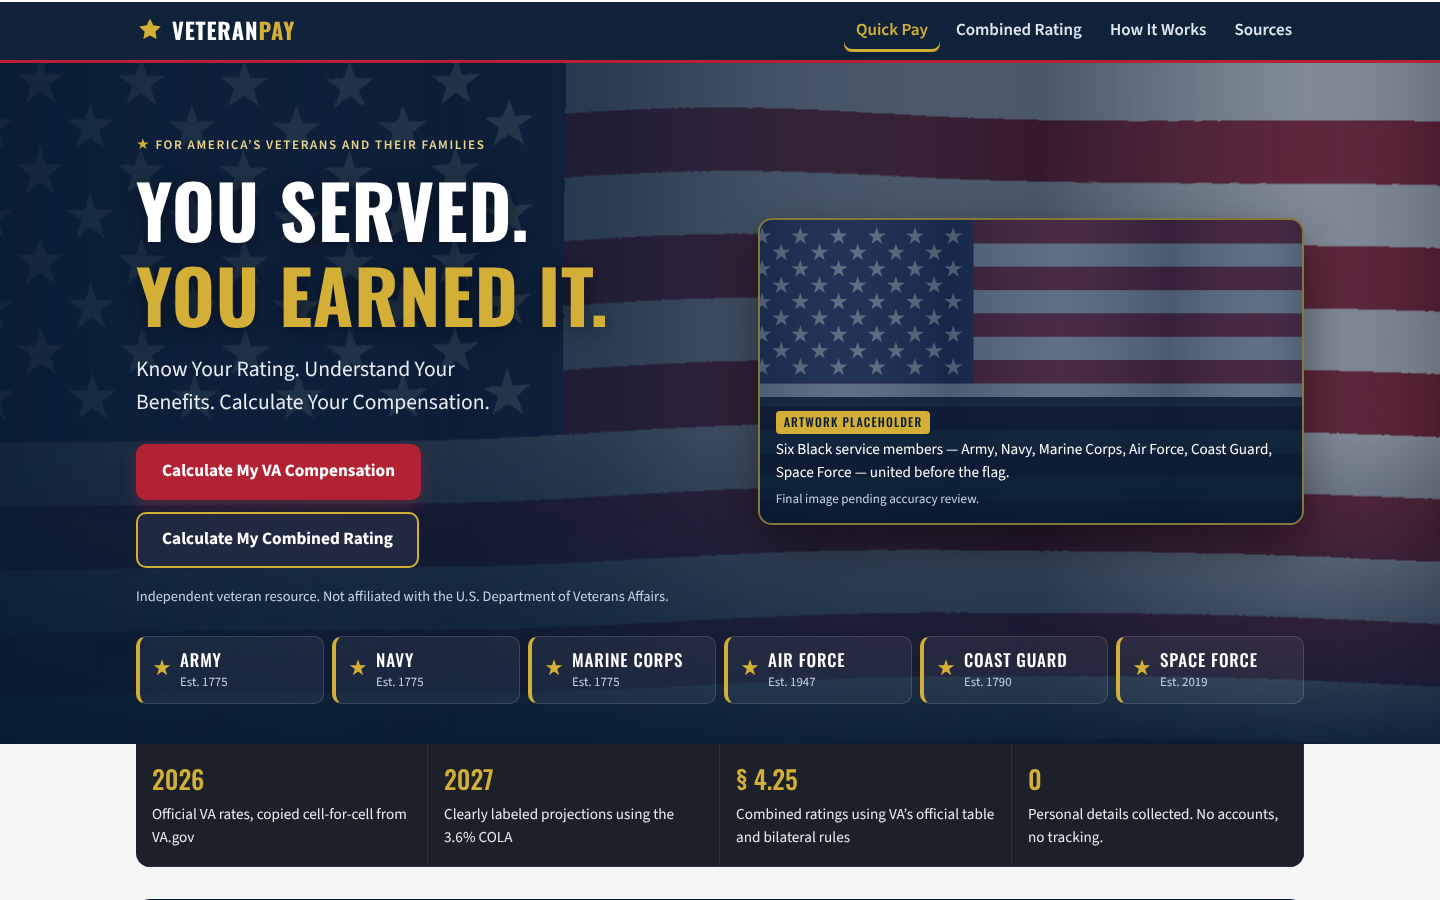
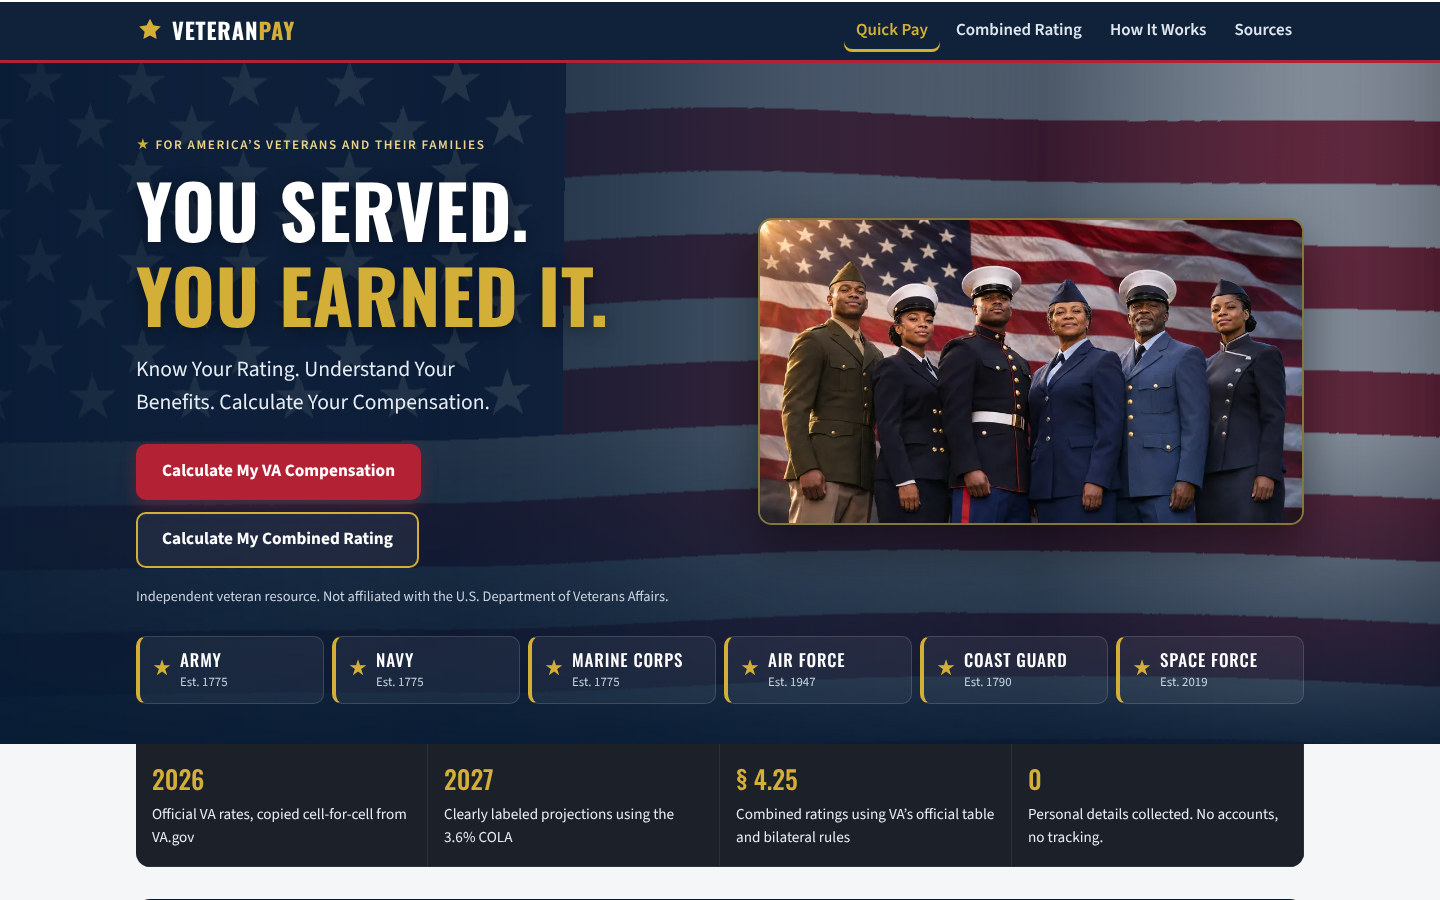
Install reviewed hero artwork of six Black service members
- ChatGPT-generated image reviewed against docs/hero-artwork.md checklist
  (six branches, three men and three women, no invented insignia, correct flag)
- Responsive WebP/JPG at 960 and 1600 px via <picture>/srcset; master kept in docs/assets
- Image shown above the headline on phones and tablets
- Social share image and Open Graph tags
- Update audit log, hero brief, handoff open items, and screenshots

Claude-Session: https://claude.ai/code/session_018dbFcAxSFCPLwop7PF7wZ7

Changed region(s): [[0.5, 0.2178, 0.9062, 0.5911]]

diff --git a/src/heroArt.ts b/src/heroArt.ts
@@ -1,22 +1,29 @@
 /**
- * Hero artwork slot.
+ * Hero artwork.
  *
- * Required asset (see docs/hero-artwork.md for the full brief):
- *  Cinematic group portrait of six Black American service members — Black men and women of
- *  varied ages and appearances — one each from the Army, Navy, Marine Corps, Air Force,
- *  Coast Guard, and Space Force, in branch-correct uniforms, standing together before a
- *  large American flag with dramatic lighting. Fictional people only; no real individuals.
+ * Six Black American service members — three men and three women of varied ages — one each
+ * from the Army, Navy, Marine Corps, Air Force, Coast Guard, and Space Force, standing before
+ * a large American flag. Fictional people (AI-generated). Reviewed 2026-11-18 against the
+ * checklist in docs/hero-artwork.md. Master file: docs/assets/hero-master-1672x941.png.
  *
- * The page shows a clearly labeled placeholder until an asset has been generated AND a
- * human has reviewed it for uniform/insignia accuracy and dignity. Then set:
- *   export const HERO_ART = { src: 'hero/service-members.jpg', alt: '…', reviewed: true };
- * with the file placed at public/hero/service-members.jpg (2400px wide, < 400 KB JPG/WebP).
+ * Files in public/hero/: `${basename}-{960,1600}.{webp,jpg}`.
  */
 export interface HeroArt {
-  /** Path relative to the site base (public/ folder). */
-  src: string;
+  /** Base path relative to the site base, without size/extension suffix. */
+  basename: string;
+  widths: readonly number[];
+  /** Intrinsic aspect ratio (width / height) of the source. */
+  width: number;
+  height: number;
   alt: string;
   reviewed: boolean;
 }
 
-export const HERO_ART: HeroArt | null = null;
+export const HERO_ART: HeroArt | null = {
+  basename: 'hero/service-members',
+  widths: [960, 1600],
+  width: 1672,
+  height: 941,
+  alt: 'Six Black American service members, three men and three women, standing shoulder to shoulder before a large American flag in the dress uniforms of the Army, Navy, Marine Corps, Air Force, Coast Guard, and Space Force.',
+  reviewed: true,
+};

diff --git a/src/components/Hero.tsx b/src/components/Hero.tsx
@@ -52,14 +52,24 @@ export function Hero({ onCompensation, onCombined }: Props) {
 
         <figure className={`hero__art ${art ? '' : 'hero__art--placeholder'}`}>
           {art ? (
-            <img
-              src={`${import.meta.env.BASE_URL}${art.src}`}
-              alt={art.alt}
-              width={1200}
-              height={675}
-              fetchPriority="high"
-              decoding="async"
-            />
+            <picture>
+              {(['webp', 'jpg'] as const).map((ext) => (
+                <source
+                  key={ext}
+                  type={ext === 'webp' ? 'image/webp' : 'image/jpeg'}
+                  srcSet={art.widths.map((w) => `${import.meta.env.BASE_URL}${art.basename}-${w}.${ext} ${w}w`).join(', ')}
+                  sizes="(min-width: 1200px) 560px, (min-width: 980px) 46vw, calc(100vw - 32px)"
+                />
+              ))}
+              <img
+                src={`${import.meta.env.BASE_URL}${art.basename}-${art.widths[0]}.jpg`}
+                alt={art.alt}
+                width={art.width}
+                height={art.height}
+                fetchPriority="high"
+                decoding="async"
+              />
+            </picture>
           ) : (
             <div className="art-placeholder" role="img" aria-label="Placeholder for hero artwork: six Black American service members, one from each of the six military branches, standing together before the American flag. Final artwork pending review.">
               <AmericanFlag className="art-placeholder__flag" waving={false} />

diff --git a/index.html b/index.html
@@ -9,6 +9,18 @@
       content="VeteranPay: an independent, privacy-first VA disability compensation and combined-rating calculator using official VA rate tables. Not affiliated with the U.S. Department of Veterans Affairs."
     />
     <link rel="icon" type="image/svg+xml" href="./favicon.svg" />
+    <meta property="og:type" content="website" />
+    <meta property="og:title" content="VeteranPay — VA Disability Compensation Calculator" />
+    <meta
+      property="og:description"
+      content="You served. You earned it. Calculate your VA compensation and combined rating with official VA rates. Independent; not affiliated with VA."
+    />
+    <meta property="og:url" content="https://bazeocrisy.github.io/VA-Disability-Calculator/" />
+    <meta property="og:image" content="https://bazeocrisy.github.io/VA-Disability-Calculator/og-image.jpg" />
+    <meta property="og:image:width" content="1200" />
+    <meta property="og:image:height" content="630" />
+    <meta property="og:image:alt" content="Six Black American service members from all six branches before the American flag." />
+    <meta name="twitter:card" content="summary_large_image" />
     <title>VeteranPay — VA Disability Compensation Calculator</title>
   </head>
   <body>

diff --git a/src/test/ui.test.tsx b/src/test/ui.test.tsx
@@ -31,9 +31,15 @@ describe('App', () => {
     expect(BRANCHES).toHaveLength(6);
   });
 
-  it('labels the hero artwork placeholder honestly until reviewed art exists', () => {
-    render(<App />);
-    expect(screen.getByRole('img', { name: /Placeholder for hero artwork/i })).toBeTruthy();
+  it('shows the reviewed hero artwork with descriptive alt text and responsive sources', () => {
+    const { container } = render(<App />);
+    const img = screen.getByRole('img', { name: /Six Black American service members/i }) as HTMLImageElement;
+    expect(img.getAttribute('alt')).toMatch(/Army, Navy, Marine Corps, Air Force, Coast Guard, and Space Force/);
+    expect(img.getAttribute('src')).toMatch(/hero\/service-members-960\.jpg$/);
+    const sources = container.querySelectorAll('.hero__art source');
+    expect(sources).toHaveLength(2);
+    expect(sources[0].getAttribute('srcset')).toMatch(/service-members-1600\.webp 1600w/);
+    expect(screen.queryByRole('img', { name: /Placeholder for hero artwork/i })).toBeNull();
   });
 
   it('labels 2026 official and 2027 PROJECTED results with dates', () => {

diff --git a/src/styles.css b/src/styles.css
@@ -230,6 +230,12 @@ h3 {
     linear-gradient(180deg, rgba(7, 27, 51, 0) 55%, rgba(7, 27, 51, 0.92) 100%);
 }
 @media (max-width: 979px) {
+  .hero {
+    padding-top: 20px;
+  }
+  .hero__art {
+    order: -1;
+  }
   .hero__scrim {
     background: linear-gradient(180deg, rgba(7, 27, 51, 0.62) 0%, rgba(7, 27, 51, 0.9) 30%, rgba(7, 27, 51, 0.94) 100%);
   }
@@ -284,6 +290,10 @@ h3 {
   box-shadow: 0 20px 50px rgba(0, 0, 0, 0.45);
   aspect-ratio: 16 / 9;
   background: var(--navy-2);
+}
+.hero__art picture {
+  display: block;
+  height: 100%;
 }
 .hero__art img {
   width: 100%;

diff --git a/docs/hero-artwork.md b/docs/hero-artwork.md
@@ -1,13 +1,31 @@
 # Hero artwork — brief and status
 
-## Status: NOT FINAL — placeholder shown on site
+## Status: INSTALLED — reviewed 2026-11-18
 
 | Item | State |
 |---|---|
-| Candidate generated | Yes — Canva AI image generation, 2026-11-18, 2720 × 1536 px. Canva media `MAHbRcTK2AA` ([open in Canva](https://www.canva.com/M/MAHbRcTK2AA)); wrapped in design [DAHbRfzV-rw](https://canva.link/3bpbx6ity8qylrv). |
-| Full-resolution file in repo | **No.** Canva refused export to the build session ("Not allowed to access design"), so only a 198 × 112 preview was available. |
-| Human review | **Not done.** At preview size the six figures appear to wear distinct dress uniforms in front of a flag, but uniform accuracy, insignia, rank devices, and faces cannot be verified at that size. AI images commonly invent incorrect insignia and ribbons. |
-| Shipped on site | Clearly labeled placeholder (`src/heroArt.ts` → `HERO_ART = null`). The site does not claim final artwork exists. |
+| Source | AI-generated by ChatGPT (from the prompt in `docs/chatgpt-handoff.md`), supplied by the project owner on 2026-11-18. Fictional people. |
+| Master file | `docs/assets/hero-master-1672x941.png` (1672 × 941 PNG, 2.2 MB) |
+| Web files | `public/hero/service-members-{960,1600}.{webp,jpg}` — WebP 47 KB / 89 KB, JPG 79 KB / 173 KB; served with `<picture>` + `srcset` |
+| Social share image | `public/og-image.jpg` (1200 × 630, cropped from master; heads preserved) |
+| Wired in | `src/heroArt.ts` (`reviewed: true`) |
+| Earlier Canva draft | Superseded (could not be exported at full size). |
+
+### Review result (checklist below)
+
+| Check | Result |
+|---|---|
+| Six people; three men, three women | Pass |
+| Black Americans, varied ages (mid-20s to mid-50s) and appearances; dignified, no stereotypes | Pass |
+| One per branch, left to right: Army (olive coat, tan trousers, garrison cap) · Navy (dark double-breasted jacket, white cover) · Marine Corps (dress blues, white belt, red trouser stripe, white cover) · Air Force (blue coat, light-blue shirt, flight cap) · Coast Guard (lighter gray-blue coat, white cover) · Space Force (dark gray-navy coat, asymmetric silver-button closure) | Pass |
+| Navy and Coast Guard visibly distinct | Pass |
+| No invented insignia, seals, logos, text or numbers | Pass (insignia minimal / soft) |
+| Flag: stripes, blue canton with stars at upper left, not mirrored | Pass |
+| Faces safe when displayed on phones | Pass (frame keeps 16:9 on all viewports; image moved above the headline on screens < 980 px) |
+| AI defects (hands, faces, buttons) | None noticed at full size |
+| Resolution | 1672 px wide (brief asked 2400). Acceptable: displayed at ≤ 560 CSS px (≤ 1120 device px on 2× screens) |
+
+Minor notes (not blockers): the Army coat has a slightly vintage cut but reads clearly as Army green service dress; fine uniform details (exact rank devices, badges) are intentionally indistinct.
 
 ## Requirements (acceptance checklist for any final asset)
 
@@ -26,16 +44,9 @@
 - [ ] Composition leaves room for cropping to 16:9 desktop and ~4:5 mobile without cutting faces.
 - [ ] Delivered as 2400 px wide JPG/WebP under 400 KB, plus written alt text.
 
-## How to install a reviewed asset
+## How to replace the asset in the future
 
-1. Export the reviewed image from Canva (Share → Download → JPG, 2400 px wide).
-2. Save as `public/hero/service-members.jpg`.
-3. In `src/heroArt.ts` set:
-   ```ts
-   export const HERO_ART = {
-     src: 'hero/service-members.jpg',
-     alt: 'Six Black American service members from the Army, Navy, Marine Corps, Air Force, Coast Guard, and Space Force standing together before a large American flag.',
-     reviewed: true,
-   };
-   ```
-4. Record the reviewer and checklist result in `docs/audit.md`.
+1. Save the new master image in `docs/assets/`.
+2. Generate `public/hero/service-members-960` and `-1600` in both `.webp` and `.jpg` (Claude can do this; any image tool works). Keep the 16:9 ratio.
+3. Update `width`, `height` and `alt` in `src/heroArt.ts`, and keep `reviewed: true` only after re-running the checklist above.
+4. Record the review in `docs/audit.md` and this file.

diff --git a/docs/chatgpt-handoff.md b/docs/chatgpt-handoff.md
@@ -160,7 +160,7 @@ Claude will then:
 
 | # | Item | Owner | How to close |
 |---|---|---|---|
-| 1 | **Hero artwork** — final image of six Black service members, one per branch | You + ChatGPT → Claude reviews | Sections 4–6 above. A Canva draft exists ([open in Canva](https://www.canva.com/M/MAHbRcTK2AA)) but could not be exported at full size or reviewed, so the site shows a labeled placeholder. |
+| 1 | ~~**Hero artwork**~~ — **DONE 2026-11-18.** ChatGPT image installed and reviewed; see `docs/hero-artwork.md` | — | Closed |
 | 2 | **Confirm the 3.6% COLA in a browser** | You | Open https://www.ssa.gov/news/en/press/releases/2026-10-14.html and confirm it says 3.6% for 2027. (SSA blocked Claude's automated download, so Claude verified it from official search results only.) |
 | 3 | **Human accuracy review** | You or a trusted reviewer (ideally a VSO or someone familiar with VA rates) | Spot-check several amounts in the calculator against https://www.va.gov/disability/compensation-rates/veteran-rates/ — e.g. 70% with spouse and 1 child = $2,074.45; 30% with spouse = $617.47. |
 | 4 | **Check the links Claude couldn't open** | You | Click the SSA and Congress.gov links on the site's **Sources** tab and confirm they load (both blocked automated checks; VA.gov and eCFR links were confirmed working). |
@@ -174,7 +174,7 @@ Claude will then:
 | 7 | **Swap in official 2027 rates when VA publishes them** | Usually late November–December. Claude will save the new VA page, load the official table, remove the "PROJECTED" labels, and update tests and docs. |
 | 8 | **Check S. 4487 status** (Veterans' COLA Act of 2026) | https://www.congress.gov/bill/119th-congress/senate-bill/4487 — Claude couldn't confirm whether it was enacted (site blocked automation). |
 | 9 | **Real screen-reader test** | Try the site with iPhone VoiceOver and Android TalkBack. Automated checks passed; real-device testing hasn't been done. |
-| 10 | **Social share image** (optional) | See "Optional extra image" in section 4. Claude will wire up the preview tags. |
+| 10 | ~~**Social share image**~~ | **DONE** — cropped from the hero image (`public/og-image.jpg`) and wired into the page's share tags. A custom version with empty space for text is still optional. |
 
 ### Known limitations (shown honestly on the site — candidates for future features)
 

diff --git a/docs/audit.md b/docs/audit.md
@@ -57,7 +57,7 @@ Concerns noted (not defects), handled as documented limitations: school-child-on
 | Check | Result | Evidence |
 |---|---|---|
 | All six branches visibly represented | PASS — Army, Navy, Marine Corps, Air Force, Coast Guard, Space Force each shown with establishment year (1775, 1775, 1775, 1947, 1790, 2019) | `docs/screenshots/desktop-home.png`; UI test "represents all six branches" |
-| Black male and female service members in hero art | **NOT MET YET** — candidate generated in Canva but not exportable to the repo or reviewable at full size; labeled placeholder shown instead | [hero-artwork.md](hero-artwork.md) |
+| Black male and female service members in hero art | PASS — six Black service members (3 men, 3 women, varied ages), one per branch, before the flag; reviewed at full size against the checklist | [hero-artwork.md](hero-artwork.md); `docs/screenshots/*-home.png`; UI test checks alt text and responsive sources |
 | Accurate flag imagery | PASS — 13 stripes (7 red), 50 stars in 9 alternating rows of 6/5, EO 10834 proportions (1 : 1.9, union 7/13 × 0.76) | `src/components/AmericanFlag.tsx`; UI tests assert 50 stars, 7 red stripes, proportions |
 | Color balance | Navy #071B33 / military #12365A / red #B22234 / white / gold #D4AF37 / charcoal intro band | screenshots |
 | No unreadable text over images | PASS — headline sits on a ≥ 82% navy scrim; axe color-contrast reports 0 violations | section 4 |
@@ -98,6 +98,6 @@ No forms submit anywhere; no network requests after load (fonts bundled); no coo
 |---|---|
 | Independent automated calculation review | Done — 1 defect (D1) found and fixed; see 1f |
 | Human accuracy review | **Not yet performed** |
-| Hero artwork review | **Not yet performed** (no final asset) |
+| Hero artwork review | Done by Claude 2026-11-18 (see hero-artwork.md); owner to confirm |
 
 **Release status: NOT APPROVED.** Deployment stays blocked until a human reviewer records approval here.
